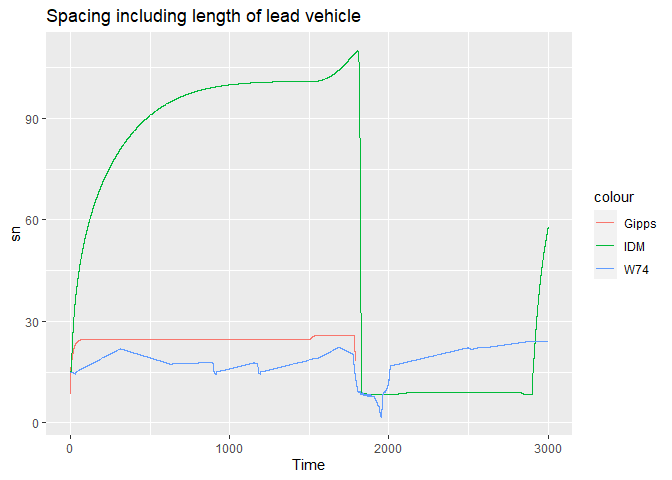
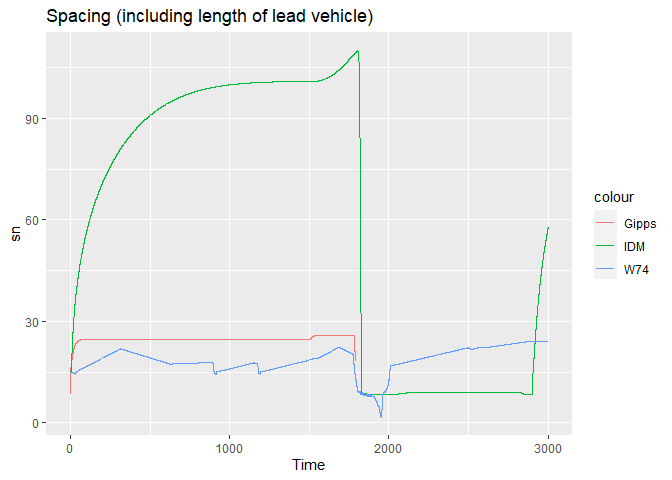
fixed references

Changed region(s): [[0.1562, 0.0, 0.5625, 0.0625]]

diff --git a/README.md b/README.md
@@ -338,7 +338,7 @@ ggplot() +
             aes(x = Time, y = sn+ln1, color = "IDM")) +
   geom_line(data = results_w74d_fv1 ,
             aes(x = Time, y = sn, color = "W74")) +
-  ggtitle("Spacing including length of lead vehicle")
+  ggtitle("Spacing (including length of lead vehicle)")
 #> Warning: Removed 12111 row(s) containing missing values (geom_path).
 ```
 
